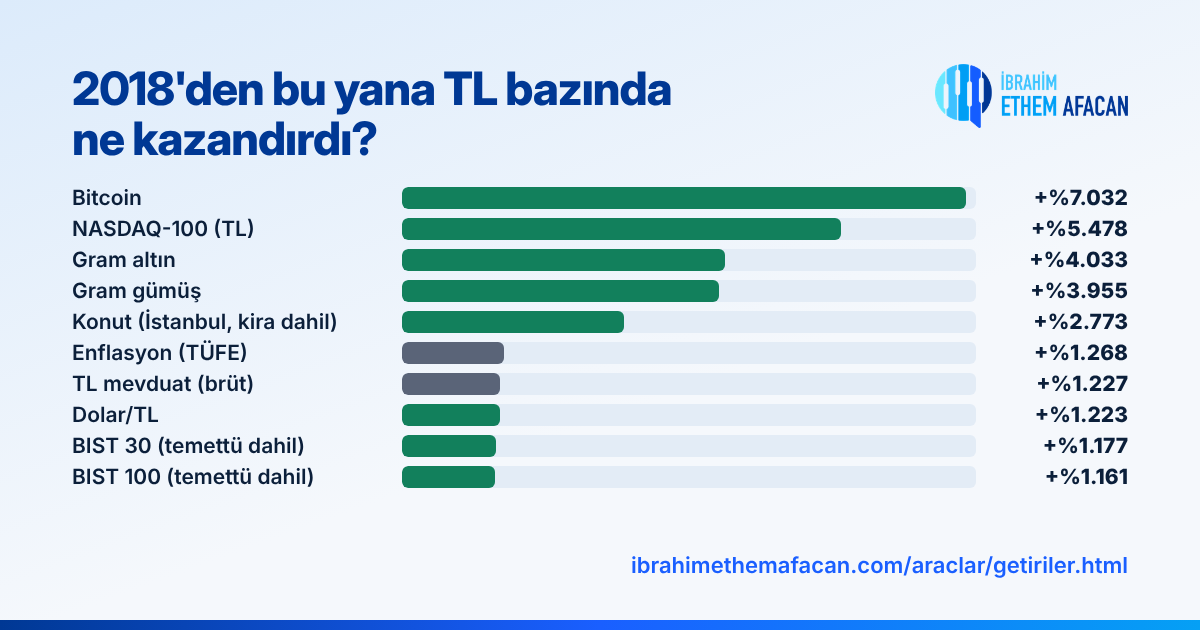
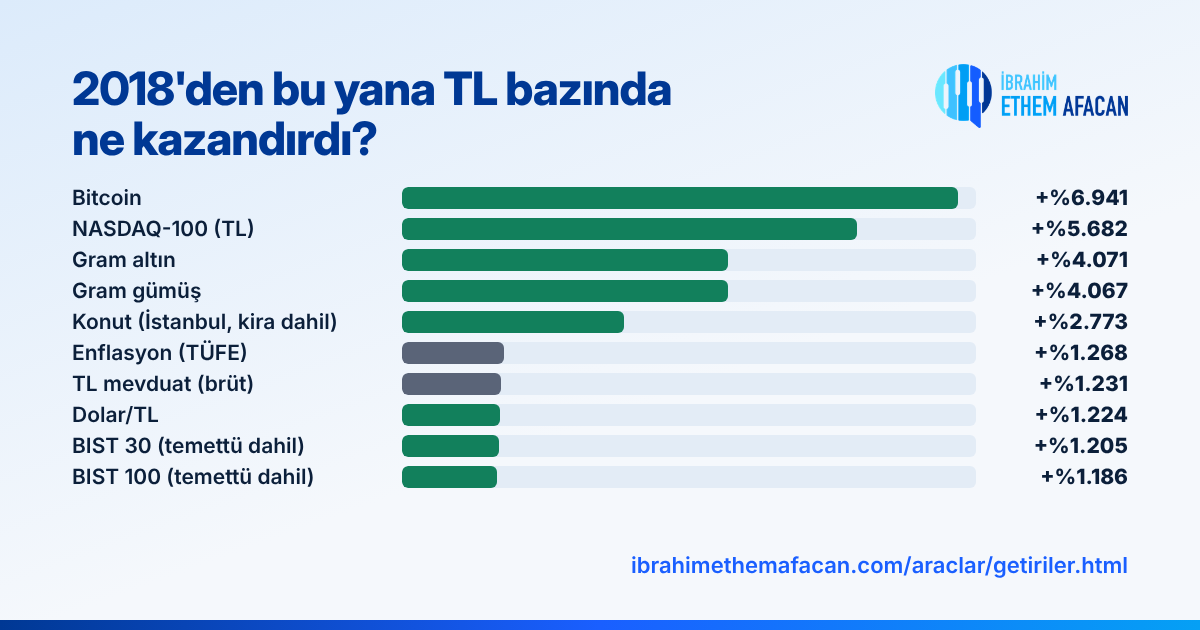
Piyasa verileri 9 Kasım 2026 kapanışlarına güncellendi
Dünya piyasaları, 52 hafta zirve grafiği, getiriler ve ana sayfa getiri kartı.

Claude-Session: https://claude.ai/code/session_013mrGbpFadh1h9epcSoKPzq

diff --git a/araclar/getiriler.html b/araclar/getiriler.html
@@ -11,14 +11,14 @@
   <meta property="og:title" content="Yatırım Araçlarının Getirileri: 2018'den bu yana TL bazında ne kazandırdı?">
   <meta property="og:description" content="2018'den bu yana TL bazında gram altın, gram gümüş, BIST 100 ve BIST 30 (temettü dahil), NASDAQ-100, dolar/TL, bitcoin ve İstanbul'da konutun (kira dahil) mevduat ve enflasyonla karşılaştırmalı yıllık ve kümülatif getirileri.">
   <meta property="og:url" content="https://ibrahimethemafacan.com/araclar/getiriler.html">
-  <meta property="og:image" content="https://ibrahimethemafacan.com/img/og-getiriler.png?v=13">
+  <meta property="og:image" content="https://ibrahimethemafacan.com/img/og-getiriler.png?v=14">
   <meta property="og:image:width" content="1200">
   <meta property="og:image:height" content="630">
   <meta name="twitter:card" content="summary_large_image">
   <meta name="twitter:site" content="@ibrahim___ethem">
   <meta name="twitter:title" content="Yatırım Araçlarının Getirileri: 2018'den bu yana TL bazında ne kazandırdı?">
   <meta name="twitter:description" content="2018'den bu yana TL bazında gram altın, gram gümüş, BIST 100 ve BIST 30 (temettü dahil), NASDAQ-100, dolar/TL, bitcoin ve İstanbul'da konutun (kira dahil) mevduat ve enflasyonla karşılaştırmalı yıllık ve kümülatif getirileri.">
-  <meta name="twitter:image" content="https://ibrahimethemafacan.com/img/og-getiriler.png?v=13">
+  <meta name="twitter:image" content="https://ibrahimethemafacan.com/img/og-getiriler.png?v=14">
   <link rel="icon" href="/favicon.ico" sizes="any">
   <link rel="icon" type="image/png" sizes="32x32" href="/img/favicon-32.png">
   <link rel="icon" type="image/png" sizes="192x192" href="/img/favicon-192.png">
@@ -57,7 +57,7 @@
   <main class="wrap narrow">
     <article class="prose wide">
       <h1>Yatırım araçlarının getirileri</h1>
-      <p>2018 başından 6 Kasım 2026'ya kadar, Türk lirası bazında. Bir aracı seçin; her yılın getirisini ve dönem başından itibaren biriken toplam getiriyi görün.</p>
+      <p>2018 başından 9 Kasım 2026'ya kadar, Türk lirası bazında. Bir aracı seçin; her yılın getirisini ve dönem başından itibaren biriken toplam getiriyi görün.</p>
     </article>
 
     <section class="race" aria-label="Toplam getiri sıralaması">
@@ -79,7 +79,7 @@
 
     <article class="prose">
       <h2>Notlar</h2>
-      <p>2026 satırı yıl başından 6 Kasım 2026'ya kadarki dönemi kapsar. Kümülatif getiri, yıllık getirilerin bileşik olarak çarpılmasıyla bulunur; bu yüzden yıllık oranların basit toplamından farklıdır. BIST 100 ve BIST 30 getirileri temettüler dahil hesaplanmıştır. NASDAQ-100, endeks puanının dolar/TL kuruyla çarpılmasıyla TL'ye çevrilmiştir; temettüler hariçtir. Gram altın GLDGR kapanışlarından, gram gümüş ise XAGTRY (ons gümüş/TL) kapanışlarının 31,1035'e bölünerek grama çevrilmesiyle hesaplanmıştır. Bitcoin'in yıl sonu değeri, yılın son günündeki BTC/USDT kapanışının dolar/TL kuruyla çarpılmasıyla bulunmuştur. Konut getirisi, İstanbul konut fiyatlarındaki değişim (TCMB Konut Fiyat Endeksi) ile brüt kira getirisinin toplamıdır. Kira getirisi, TCMB'nin İstanbul'da değerlemesi yapılan konutlara ait birim kira ve birim fiyat verilerinden hesaplanmıştır; aidat, vergi ve boş kalma süresi gibi masraflar hariçtir. TL mevduat getirisi, TCMB'nin açıkladığı 3 aya kadar vadeli TL mevduat faizlerinin (ağırlıklı ortalama, akım) aylık ortalamalarıyla, mevduatın her üç ayda bir yenilendiği varsayılarak hesaplanmıştır; stopaj öncesi brüt getiridir. Enflasyon, TÜİK'in açıkladığı tüketici fiyat endeksinin (TÜFE) Aralıktan Aralığa değişimidir; 2026 satırı Eylül 2026'ya kadarki değişimi gösterir. Geçmiş getiriler gelecekteki getirilerin göstergesi değildir.</p>
+      <p>2026 satırı yıl başından 9 Kasım 2026'ya kadarki dönemi kapsar. Kümülatif getiri, yıllık getirilerin bileşik olarak çarpılmasıyla bulunur; bu yüzden yıllık oranların basit toplamından farklıdır. BIST 100 ve BIST 30 getirileri temettüler dahil hesaplanmıştır. NASDAQ-100, endeks puanının dolar/TL kuruyla çarpılmasıyla TL'ye çevrilmiştir; temettüler hariçtir. Gram altın GLDGR kapanışlarından, gram gümüş ise XAGTRY (ons gümüş/TL) kapanışlarının 31,1035'e bölünerek grama çevrilmesiyle hesaplanmıştır. Bitcoin'in yıl sonu değeri, yılın son günündeki BTC/USDT kapanışının dolar/TL kuruyla çarpılmasıyla bulunmuştur. Konut getirisi, İstanbul konut fiyatlarındaki değişim (TCMB Konut Fiyat Endeksi) ile brüt kira getirisinin toplamıdır. Kira getirisi, TCMB'nin İstanbul'da değerlemesi yapılan konutlara ait birim kira ve birim fiyat verilerinden hesaplanmıştır; aidat, vergi ve boş kalma süresi gibi masraflar hariçtir. TL mevduat getirisi, TCMB'nin açıkladığı 3 aya kadar vadeli TL mevduat faizlerinin (ağırlıklı ortalama, akım) aylık ortalamalarıyla, mevduatın her üç ayda bir yenilendiği varsayılarak hesaplanmıştır; stopaj öncesi brüt getiridir. Enflasyon, TÜİK'in açıkladığı tüketici fiyat endeksinin (TÜFE) Aralıktan Aralığa değişimidir; 2026 satırı Eylül 2026'ya kadarki değişimi gösterir. Geçmiş getiriler gelecekteki getirilerin göstergesi değildir.</p>
     </article>
   </main>
 
@@ -92,38 +92,38 @@
   </footer>
 
   <script>
-    // Yıllık değişim (%) ve kümülatif (%) — 2026: 6 Kasım 2026'ya kadar
+    // Yıllık değişim (%) ve kümülatif (%) — 2026: 9 Kasım 2026'ya kadar
     var DATA = [
       { id: 'altin', name: 'Gram altın', color: '#B8862B',
-        foot: '158,80 TL → 6.563,27 TL',
-        rows: [[2018,37.4,37.4],[2019,33.1,82.8],[2020,56.4,186.0],[2021,72.0,392.0],[2022,40.5,591.1],[2023,78.3,1132],[2024,52.5,1779],[2025,99.5,3648],['2026*',10.3,4033]] },
+        foot: '158,80 TL → 6.624,29 TL',
+        rows: [[2018,37.4,37.4],[2019,33.1,82.8],[2020,56.4,186.0],[2021,72.0,392.0],[2022,40.5,591.1],[2023,78.3,1132],[2024,52.5,1779],[2025,99.5,3648],['2026*',11.3,4071]] },
       { id: 'gumus', name: 'Gram gümüş', color: '#8A9BA8',
-        foot: '2,07 TL → 83,76 TL',
-        rows: [[2018,27.4,27.4],[2019,29.8,65.5],[2020,84.6,205.5],[2021,57.4,380.8],[2022,45.0,597.0],[2023,56.7,992.2],[2024,45.7,1491],[2025,198.4,4648],['2026*',-14.6,3955]] },
+        foot: '2,07 TL → 86,07 TL',
+        rows: [[2018,27.4,27.4],[2019,29.8,65.5],[2020,84.6,205.5],[2021,57.4,380.8],[2022,45.0,597.0],[2023,56.7,992.2],[2024,45.7,1491],[2025,198.4,4648],['2026*',-12.2,4067]] },
       { id: 'bist', name: 'BIST 100 (temettü dahil)', tab: 'BIST 100', color: '#0F6B57',
         foot: 'Temettüler yeniden yatırılmış kabul edilir.',
-        rows: [[2018,-18.1,-18.1],[2019,29.7,6.2],[2020,30.9,39.0],[2021,30.0,80.8],[2022,206.5,454.0],[2023,39.3,671.8],[2024,34.9,941.1],[2025,17.0,1119],['2026*',3.5,1161]] },
+        rows: [[2018,-18.1,-18.1],[2019,29.7,6.2],[2020,30.9,39.0],[2021,30.0,80.8],[2022,206.5,454.0],[2023,39.3,671.8],[2024,34.9,941.1],[2025,17.0,1119],['2026*',5.5,1186]] },
       { id: 'bist30', name: 'BIST 30 (temettü dahil)', tab: 'BIST 30', color: '#0B5A48',
         foot: 'Temettüler yeniden yatırılmış kabul edilir.',
-        rows: [[2018,-16.7,-16.7],[2019,25.6,4.6],[2020,19.5,25.0],[2021,27.9,59.9],[2022,203.4,385.2],[2023,38.6,572.4],[2024,37.5,824.6],[2025,16.3,975.3],['2026*',18.7,1177]] },
+        rows: [[2018,-16.7,-16.7],[2019,25.6,4.6],[2020,19.5,25.0],[2021,27.9,59.9],[2022,203.4,385.2],[2023,38.6,572.4],[2024,37.5,824.6],[2025,16.3,975.3],['2026*',21.4,1205]] },
       { id: 'ndx', name: 'NASDAQ-100 (TL)', tab: 'NASDAQ-100', color: '#2E5AAC',
-        foot: '24.246 TL → 1.353.516 TL. Endeks puanı, dolar/TL kuruyla TL\'ye çevrilmiştir; temettüler hariçtir.',
-        rows: [[2018,38.2,38.2],[2019,55.1,114.3],[2020,84.5,295.2],[2021,126.1,793.7],[2022,-5.5,744.2],[2023,143.2,1953],[2024,49.3,2966],[2025,45.8,4370],['2026*',24.8,5478]] },
+        foot: '24.246 TL → 1.402.919 TL. Endeks puanı, dolar/TL kuruyla TL\'ye çevrilmiştir; temettüler hariçtir.',
+        rows: [[2018,38.2,38.2],[2019,55.1,114.3],[2020,84.5,295.2],[2021,126.1,793.7],[2022,-5.5,744.2],[2023,143.2,1953],[2024,49.3,2966],[2025,45.8,4370],['2026*',29.3,5682]] },
       { id: 'usd', name: 'Dolar/TL', color: '#3B5B8C',
-        foot: '3,79 TL → 50,15 TL',
-        rows: [[2018,39.7,39.7],[2019,12.4,57.0],[2020,25.0,96.2],[2021,80.3,253.6],[2022,39.6,393.6],[2023,57.5,677.6],[2024,20.0,833.4],[2025,21.4,1033],['2026*',16.7,1223]] },
+        foot: '3,79 TL → 50,18 TL',
+        rows: [[2018,39.7,39.7],[2019,12.4,57.0],[2020,25.0,96.2],[2021,80.3,253.6],[2022,39.6,393.6],[2023,57.5,677.6],[2024,20.0,833.4],[2025,21.4,1033],['2026*',16.8,1224]] },
       { id: 'btc', name: 'Bitcoin', color: '#E8891C',
-        star: '* 6 Kasım 2026 itibarıyla. ',
-        foot: '52.961 TL → 3.805.394 TL. TL fiyatı, BTC/USDT fiyatı ile dolar/TL kurunun çarpımıdır.',
-        rows: [[2018,-63.3,-63.3],[2019,119.7,-19.4],[2020,407.3,308.9],[2021,181.3,1050],[2022,-49.1,485.3],[2023,306.2,2278],[2024,162.9,6151],[2025,13.7,7005],['2026*',0.4,7032]] },
+        star: '* 9 Kasım 2026 itibarıyla. ',
+        foot: '52.961 TL → 3.757.057 TL. TL fiyatı, BTC/USDT fiyatı ile dolar/TL kurunun çarpımıdır.',
+        rows: [[2018,-63.3,-63.3],[2019,119.7,-19.4],[2020,407.3,308.9],[2021,181.3,1050],[2022,-49.1,485.3],[2023,306.2,2278],[2024,162.9,6151],[2025,13.7,7005],['2026*',-0.9,6941]] },
       { id: 'konut', name: 'Konut (İstanbul/kira dahil)', tab: 'Konut', color: '#6B4E9B',
         star: '* Eylül 2026 itibarıyla (TCMB\'nin açıkladığı son veri; kira dokuz aylık). ',
         foot: 'İstanbul konut fiyat değişimi (TCMB) ile brüt kira getirisinin toplamıdır. Vergi ve masraflar hariçtir.',
         rows: [[2018,6.2,6.2],[2019,9.3,16.1],[2020,33.3,54.7],[2021,73.9,169.0],[2022,174.5,638.5],[2023,72.3,1172],[2024,31.9,1579],[2025,35.5,2175],['2026*',26.3,2773]] },
       { id: 'mevduat', name: 'TL mevduat (brüt)', tab: 'Mevduat', color: '#8A94A6', bench: true,
-        star: '* 6 Kasım 2026 itibarıyla (3 aya kadar vadeli mevduat; son vade 2 Ekim\'de %43,79 faizle başladı). ',
+        star: '* 9 Kasım 2026 itibarıyla (3 aya kadar vadeli mevduat; son vade 2 Ekim\'de %43,79 faizle başladı). ',
         foot: '3 aya kadar vadeli TL mevduatın her vade sonunda yenilendiği varsayılmıştır. Stopaj öncesi brüt getiridir.',
-        rows: [[2018,19.3,19.3],[2019,20.1,43.2],[2020,11.2,59.2],[2021,19.4,90.1],[2022,20.4,128.8],[2023,40.2,220.8],[2024,73.2,455.7],[2025,64.2,812.4],['2026*',45.4,1227]] },
+        rows: [[2018,19.3,19.3],[2019,20.1,43.2],[2020,11.2,59.2],[2021,19.4,90.1],[2022,20.4,128.8],[2023,40.2,220.8],[2024,73.2,455.7],[2025,64.2,812.4],['2026*',45.9,1231]] },
       { id: 'tufe', name: 'Enflasyon (TÜFE)', tab: 'Enflasyon', color: '#8A94A6', bench: true,
         star: '* Ekim 2026 itibarıyla (TÜİK\'in açıkladığı son veri). ',
         foot: 'Bir aracın kümülatif getirisi buradaki kümülatif enflasyondan yüksekse, o araç dönem boyunca enflasyonu yenmiştir.',
@@ -180,7 +180,7 @@
           '<td class="r rt-cum">' + pct(r[2], true) + '</td></tr>';
       }).join('');
       fitLabels();
-      document.getElementById('foot').textContent = (d.star || '* 6 Kasım 2026 itibarıyla. ') + d.foot;
+      document.getElementById('foot').textContent = (d.star || '* 9 Kasım 2026 itibarıyla. ') + d.foot;
     }
 
     // Oran her zaman çubuğun içinde; kısa çubuklar oranın sığacağı kadar uzatılır

diff --git a/araclar/makro.html b/araclar/makro.html
@@ -219,14 +219,14 @@
       <div class="gh-row"><svg class="gh-art" viewBox="0 0 64 64" aria-hidden="true" fill="none" stroke-linecap="round" stroke-linejoin="round"><circle cx="26" cy="30" r="20" fill="#E6F0FE" stroke="#0E3A8C" stroke-width="2.5"/><ellipse cx="26" cy="30" rx="9" ry="20" stroke="#0E3A8C" stroke-width="1.8"/><line x1="6" y1="30" x2="46" y2="30" stroke="#0E3A8C" stroke-width="1.8"/><path d="M9 20 H43 M9 40 H43" stroke="#A9C6FF" stroke-width="1.8"/>
 <polyline points="30,54 40,44 47,48 60,30" stroke="#1A5FFF" stroke-width="3"/><polyline points="53,30 60,30 60,37" stroke="#1A5FFF" stroke-width="3"/><circle cx="14" cy="56" r="5" fill="#E8B43A" stroke="#0E3A8C" stroke-width="1.8"/></svg><h2 class="gh">Dünya piyasaları</h2></div>
       <article class="prose wide">
-        <p>Dünyanın başlıca borsaları, emtiaları ve dolar endeksi Kasım ayında (6 Kasım'a kadar) ve yılbaşından bu yana ne kadar değişti? Karşılaştırma dolar bazındadır: euro, sterlin, yen, won, yuan ve TL ile hesaplanan endeksler, aynı dönemdeki kur değişimiyle dolara çevrilmiştir. Endeksler fiyat endeksidir, temettü dahil değildir. Dolar endeksi (DXY), doların diğer büyük para birimleri karşısındaki değerini gösterir.</p>
+        <p>Dünyanın başlıca borsaları, emtiaları ve dolar endeksi Kasım ayında (9 Kasım'a kadar) ve yılbaşından bu yana ne kadar değişti? Karşılaştırma dolar bazındadır: euro, sterlin, yen, won, yuan ve TL ile hesaplanan endeksler, aynı dönemdeki kur değişimiyle dolara çevrilmiştir. Endeksler fiyat endeksidir, temettü dahil değildir. Dolar endeksi (DXY), doların diğer büyük para birimleri karşısındaki değerini gösterir.</p>
       </article>
       <figure class="chart" id="c-rk"><figcaption id="rk-cap"></figcaption>
         <div class="seg" role="group" aria-label="Dönem"><button type="button" data-p="y" aria-pressed="true">2026</button><button type="button" data-p="m" aria-pressed="false">Kasım ayı</button></div>
         <div class="lg"></div><div class="rk"></div></figure>
       <article class="prose wide"><p>Gelişen piyasalar son bir yılın zirvesinden ne kadar uzakta? Her ülke için ABD'de işlem gören ülke borsa yatırım fonunun (ETF) dolar fiyatı, son 52 haftadaki en yüksek değeriyle karşılaştırılmıştır; sıfır çizgisi zirveyi gösterir. Türkiye kırmızı, MSCI'ın gelişen piyasalar sınıfı dışında tuttuğu Arjantin kesikli çizgiyle işaretlidir.</p></article>
       <figure class="chart" id="c-zv"><figcaption id="zv-cap"></figcaption><div class="lg"></div><div class="rk zv"></div></figure>
-      <figure class="chart" id="c-us10"><figcaption>ABD 10 yıllık tahvil faizi, ay sonu (Kasım: 6 Kasım), %</figcaption><div class="lg"></div><div class="plot"></div></figure>
+      <figure class="chart" id="c-us10"><figcaption>ABD 10 yıllık tahvil faizi, ay sonu (Kasım: 9 Kasım), %</figcaption><div class="lg"></div><div class="plot"></div></figure>
       <article class="prose wide"><p>ABD 10 yıllık tahvil faizi, dünyadaki varlıkların fiyatlamasında temel alınan “risksiz” getiridir; yükseldiğinde hisse senetleri, altın ve gelişmekte olan ülke varlıkları genellikle baskı altına girer.</p></article>
       <figure class="chart" id="c-etf"><figcaption>Altın ETF'lerine net para girişi, 2026, milyar dolar</figcaption><div class="lg"></div><div class="plot"></div></figure>
       <article class="prose wide"><p>Dünya genelinde fiziki altına dayalı borsa yatırım fonlarına (ETF) giren ve çıkan para. Artı değer net girişi, eksi değer net çıkışı gösterir. Bu fonların toplam altın varlığı Eylül sonunda 4.256 ton ile rekor kırdı.</p></article>
@@ -238,7 +238,7 @@
       <p class="unit">Milyar dolar</p>
       <div class="twrap"><table class="kt" id="t-etf"><thead><tr><th>Ay</th><th>Net akım</th></tr></thead><tbody></tbody><tfoot></tfoot></table></div>
       </details>
-      <p class="calc-note">Değerler 6 Kasım 2026 itibarıyladır; ABD endeksleri, emtialar ve dolar endeksi o günün akşam fiyatlarıdır ve gün sonu kapanışından farklı olabilir. Kasım değişimi Ekim sonu kapanışına (Dow Jones için 29 Ekim), 2026 değişimi 2025 son kapanışına göredir. Dolara çevirmede EUR/USD, GBP/USD, USD/JPY, USD/KRW, USD/CNY ve USD/TRY kurlarının aynı tarihlerdeki değerleri kullanılmıştır. * Son değer, endeksin kendi para birimindeki puanıdır. Zirveden uzaklık grafiğinde iShares ülke ETF'leri (Çin için büyük ölçekli şirketleri izleyen FXI, gelişen piyasalar için EEM ve Çin hariç EMXC) kullanılmış; ABD'de ETF'i bulunmayan Mısır için FTSE Mısır endeksinin dolar değeri alınmıştır. Fiyatlar 6 Kasım 2026 ABD kapanışı, zirve son 52 haftada görülen en yüksek fiyattır.</p>
+      <p class="calc-note">Değerler 9 Kasım 2026 itibarıyladır; ABD endeksleri, emtialar ve dolar endeksi o günün akşam fiyatlarıdır ve gün sonu kapanışından farklı olabilir. Kasım değişimi Ekim sonu kapanışına (Dow Jones için 29 Ekim), 2026 değişimi 2025 son kapanışına göredir. Dolara çevirmede EUR/USD, GBP/USD, USD/JPY, USD/KRW, USD/CNY ve USD/TRY kurlarının aynı tarihlerdeki değerleri kullanılmıştır. * Son değer, endeksin kendi para birimindeki puanıdır. Zirveden uzaklık grafiğinde iShares ülke ETF'leri (Çin için büyük ölçekli şirketleri izleyen FXI, gelişen piyasalar için EEM ve Çin hariç EMXC) kullanılmış; ABD'de ETF'i bulunmayan Mısır için FTSE Mısır endeksinin dolar değeri alınmıştır. Fiyatlar 9 Kasım 2026 ABD kapanışı, zirve son 52 haftada görülen en yüksek fiyattır.</p>
     </section>
 
     <article class="prose">
@@ -362,7 +362,7 @@
     chart('c-cy',{type:'bar',sign:true,labels:D.cari.y.map(function(r){return r.y;}),fmt:function(v){return fB(v)+' milyar $';},fmtAxis:function(v){return (v<0?'−':'')+n0.format(Math.abs(v));},series:[{name:'Cari denge',color:UP,values:D.cari.y.map(function(r){return r.v;})}]});
 
     /* ---- dünya piyasaları ---- */
-    var DN_=[["S&P 500|ABD","b",-2.8,6.9,7381.27],["Dow Jones|ABD","b",-2.0,6.7,51285.73],["Nasdaq-100|ABD","b",-5.3,6.9,26989.99],["DAX|Almanya","b",-0.3,-0.1,25820.36],["FTSE 100|İngiltere","b",-0.8,6.7,10673.94],["CAC 40|Fransa","b",2.0,-5.4,8139.0],["Nikkei 225|Japonya","b",-9.9,12.9,57434.77],["KOSPI|Güney Kore","b",-13.7,27.2,5059.69],["Şanghay|Çin","b",1.2,-3.6,3649.18],["BIST 100|Türkiye","b",6.3,-12.7,11482.6],["Altın|ons","e",4.4,-5.6,4070.73],["Gümüş|ons","e",5.4,-26.9,51.95],["Brent petrol|varil","e",-14.5,58.9,96.77],["Dolar endeksi|DXY","d",0.4,4.0,102.3]];
+    var DN_=[["S&P 500|ABD","b",-0.6,9.4,7552.84],["Dow Jones|ABD","b",0.1,9.0,52410.1],["Nasdaq-100|ABD","b",-1.9,10.7,27956.47],["DAX|Almanya","b",1.9,2.1,26267.19],["FTSE 100|İngiltere","b",0.9,8.5,10782.87],["CAC 40|Fransa","b",3.7,-3.8,8233.3],["Nikkei 225|Japonya","b",-7.4,16.0,58775.5],["KOSPI|Güney Kore","b",-12.9,28.3,5018.85],["Şanghay|Çin","b",1.6,-3.3,3660.79],["BIST 100|Türkiye","b",8.3,-11.0,11712.67],["Altın|ons","e",5.8,-4.4,4125.33],["Gümüş|ons","e",8.4,-24.9,53.39],["Brent petrol|varil","e",-14.1,59.6,97.14],["Dolar endeksi|DXY","d",-0.2,3.4,101.68]];
     var KAT={b:['Borsa',C1],e:['Emtia',C2],d:['Döviz',C3]};
     var US10={v:[1.088,1.426,1.739,1.625,1.584,1.472,1.23,1.308,1.487,1.562,1.443,1.514,1.793,1.834,2.339,2.931,2.853,3.017,2.651,3.195,3.827,4.05,3.687,3.88,3.506,3.914,3.476,3.424,3.642,3.839,3.959,4.106,4.579,4.931,4.362,3.881,3.978,4.25,4.205,4.694,4.51,4.387,4.075,3.913,3.786,4.275,4.175,4.576,4.585,4.219,4.23,4.156,4.401,4.242,4.367,4.233,4.153,4.098,4.018,4.172,4.238,3.952,4.318,4.375,4.44,4.47,4.74,4.76,5.29,4.96,4.87]};
     var ETF=[19,5.3,-12,6.6,-2,-8.9,3,18,10];
@@ -383,7 +383,7 @@
     document.querySelectorAll('#c-rk .seg button').forEach(function(b){b.addEventListener('click',function(){rkP=b.dataset.p;document.querySelectorAll('#c-rk .seg button').forEach(function(x){x.setAttribute('aria-pressed',x===b);});rank();});});
     rank();
     /* ---- 52 haftalık zirveden uzaklık ---- */
-    var ZV={"d":"6 Kasım 2026","r":[["Endonezya","EIDO",10.07,19.29,""],["Güney Kore","EWY",137.01,220.89,""],["Arjantin","ARGT",73.67,103.97,"s"],["Türkiye","TUR",31.24,43.98,"t"],["Brezilya","EWZ",31.98,43.9,""],["Şili","ECH",35.75,47.85,""],["Tayvan","EWT",89.24,118.47,""],["MSCI Gelişen (Çin hariç)","EMXC",85.27,107.12,"e"],["Filipinler","EPHE",22.9,28.4,""],["Güney Afrika","EZA",67.06,81.76,""],["MSCI Gelişen Piyasalar","EEM",59.33,71.57,"e"],["Peru","EPU",80.41,95.28,""],["Çin (büyük ölçek)","FXI",34.95,41.22,""],["Suudi Arabistan","KSA",35.03,40.83,""],["Katar","QAT",17.6,20.17,""],["Mısır","FTSE Mısır",19429.48,22112.61,""],["Malezya","EWM",26.99,30.64,""],["Tayland","THD",66.3,75.17,""]]};
+    var ZV={"d":"9 Kasım 2026","r":[["Endonezya","EIDO",10.3,19.29,""],["Güney Kore","EWY",142.17,220.89,""],["Arjantin","ARGT",75.36,103.97,"s"],["Türkiye","TUR",32.22,43.98,"t"],["Brezilya","EWZ",32.65,43.9,""],["Şili","ECH",36.44,47.85,""],["Tayvan","EWT",95.66,118.47,""],["MSCI Gelişen (Çin hariç)","EMXC",88.6,107.12,"e"],["Filipinler","EPHE",22.85,28.4,""],["Güney Afrika","EZA",69.22,81.76,""],["MSCI Gelişen Piyasalar","EEM",61.04,71.57,"e"],["Peru","EPU",83.06,95.28,""],["Çin (büyük ölçek)","FXI",34.62,41.22,""],["Suudi Arabistan","KSA",35.47,40.83,""],["Katar","QAT",17.87,20.17,""],["Mısır","FTSE Mısır",19559.99,22112.61,""],["Malezya","EWM",27.27,30.64,""],["Tayland","THD",67.82,75.17,""]]};
     (function(){var rows=ZV.r.map(function(r){return {n:r[0],k:r[1],p:r[2],h:r[3],t:r[4],v:(r[2]/r[3]-1)*100};}).sort(function(a,b){return a.v-b.v;});
       document.getElementById('zv-cap').textContent='52 haftalık zirveden uzaklık, dolar bazında, % ('+ZV.d+')';
       var mx=Math.max.apply(null,rows.map(function(r){return Math.abs(r.v);}))||1,box=document.querySelector('#c-zv .rk');

diff --git a/index.html b/index.html
@@ -65,14 +65,14 @@
           </div>
         </div>
         <a class="hero-race" href="/araclar/getiriler.html" aria-label="2026 getiri yarışı, getiriler sayfasına git">
-          <div class="hr-head"><span class="hr-eyebrow">2026'da ne kazandırdı?</span><span class="hr-sub">Yılbaşından 6 Kasım'a, TL bazında, %</span></div>
+          <div class="hr-head"><span class="hr-eyebrow">2026'da ne kazandırdı?</span><span class="hr-sub">Yılbaşından 9 Kasım'a, TL bazında, %</span></div>
           <ol class="hr-bars">
-            <li><span class="hr-n">TL mevduat</span><span class="hr-t"><i style="width:100.0%"></i></span><b class="hr-v">+45,4</b></li>
-            <li class="ref"><span class="hr-n">Enflasyon</span><span class="hr-t"><i style="width:60.6%"></i></span><b class="hr-v">+27,5</b></li>
-            <li><span class="hr-n">Dolar/TL</span><span class="hr-t"><i style="width:36.8%"></i></span><b class="hr-v">+16,7</b></li>
-            <li><span class="hr-n">Gram altın</span><span class="hr-t"><i style="width:22.7%"></i></span><b class="hr-v">+10,3</b></li>
-            <li><span class="hr-n">BIST 100</span><span class="hr-t"><i style="width:7.7%"></i></span><b class="hr-v">+3,5</b></li>
-            <li class="neg"><span class="hr-n">Gram gümüş</span><span class="hr-t"><i style="width:32.2%"></i></span><b class="hr-v">−14,6</b></li>
+            <li><span class="hr-n">TL mevduat</span><span class="hr-t"><i style="width:100.0%"></i></span><b class="hr-v">+45,9</b></li>
+            <li class="ref"><span class="hr-n">Enflasyon</span><span class="hr-t"><i style="width:59.9%"></i></span><b class="hr-v">+27,5</b></li>
+            <li><span class="hr-n">Dolar/TL</span><span class="hr-t"><i style="width:36.6%"></i></span><b class="hr-v">+16,8</b></li>
+            <li><span class="hr-n">Gram altın</span><span class="hr-t"><i style="width:24.6%"></i></span><b class="hr-v">+11,3</b></li>
+            <li><span class="hr-n">BIST 100</span><span class="hr-t"><i style="width:12.0%"></i></span><b class="hr-v">+5,5</b></li>
+            <li class="neg"><span class="hr-n">Gram gümüş</span><span class="hr-t"><i style="width:26.6%"></i></span><b class="hr-v">−12,2</b></li>
           </ol>
           <div class="hr-foot"><span>Enflasyonu geçen yalnızca mevduat.</span><span class="hr-more">2018'den bu yana →</span></div>
         </a>

diff --git a/scripts/og/getiriler.html b/scripts/og/getiriler.html
@@ -10,6 +10,6 @@ h1{font-size:46px}
 <div style="display:flex;align-items:center;justify-content:space-between"><h1>2018'den bu yana TL bazında<br>ne kazandırdı?</h1><img class="logo" src="logo.png" style="align-self:flex-start"></div>
 <div class="rows" id="rows"></div></div><div class="url">ibrahimethemafacan.com/araclar/getiriler.html</div><div class="bar"></div>
 <script>
-var d=[['Bitcoin',7032],['NASDAQ-100 (TL)',5478],['Gram altın',4033],['Gram gümüş',3955],['Konut (İstanbul, kira dahil)',2773],['Enflasyon (TÜFE)',1268,1],['TL mevduat (brüt)',1227,1],['Dolar/TL',1223],['BIST 30 (temettü dahil)',1177],['BIST 100 (temettü dahil)',1161]];
+var d=[['Bitcoin',6941],['NASDAQ-100 (TL)',5682],['Gram altın',4071],['Gram gümüş',4067],['Konut (İstanbul, kira dahil)',2773],['Enflasyon (TÜFE)',1268,1],['TL mevduat (brüt)',1231,1],['Dolar/TL',1224],['BIST 30 (temettü dahil)',1205],['BIST 100 (temettü dahil)',1186]];
 document.getElementById('rows').innerHTML=d.map(function(x){return '<div class="r"><span class="n">'+x[0]+'</span><span class="t"><i style="width:'+(x[1]/7161*100)+'%;'+(x[2]?'background:#5A6478':'')+'"></i></span><span class="v">+%'+x[1].toLocaleString('tr-TR')+'</span></div>'}).join('');
 </script></body></html>
